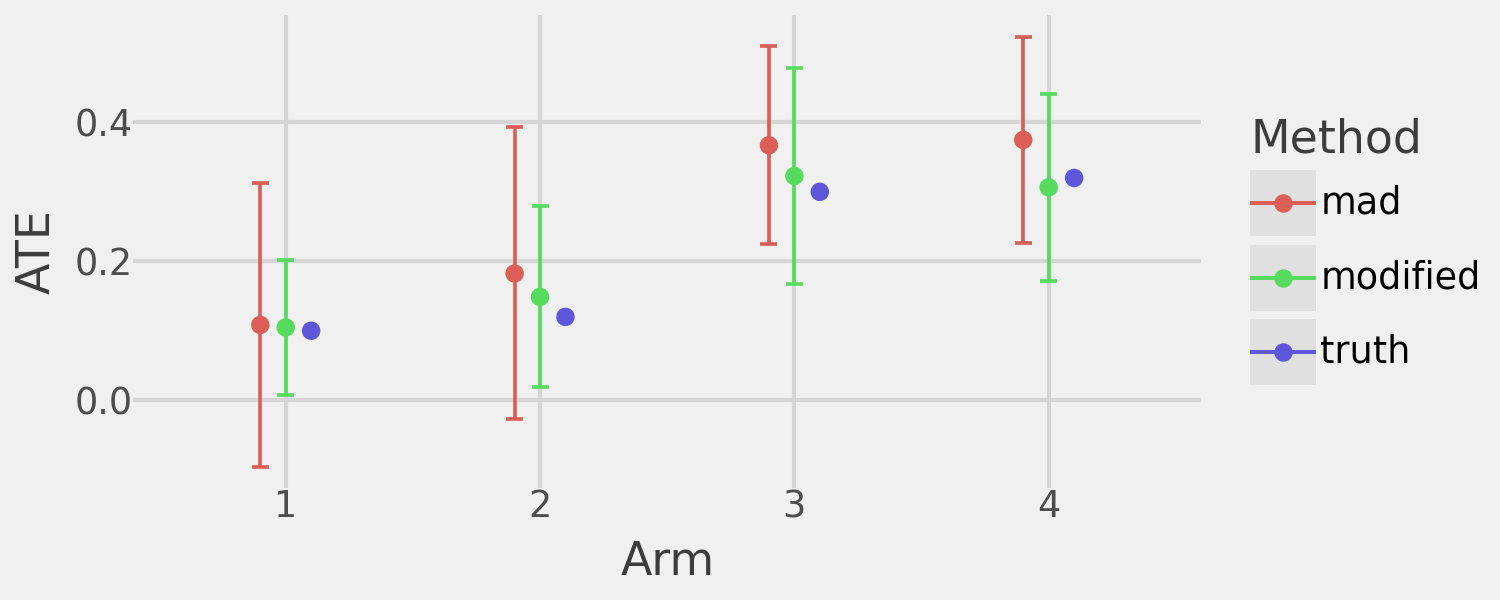
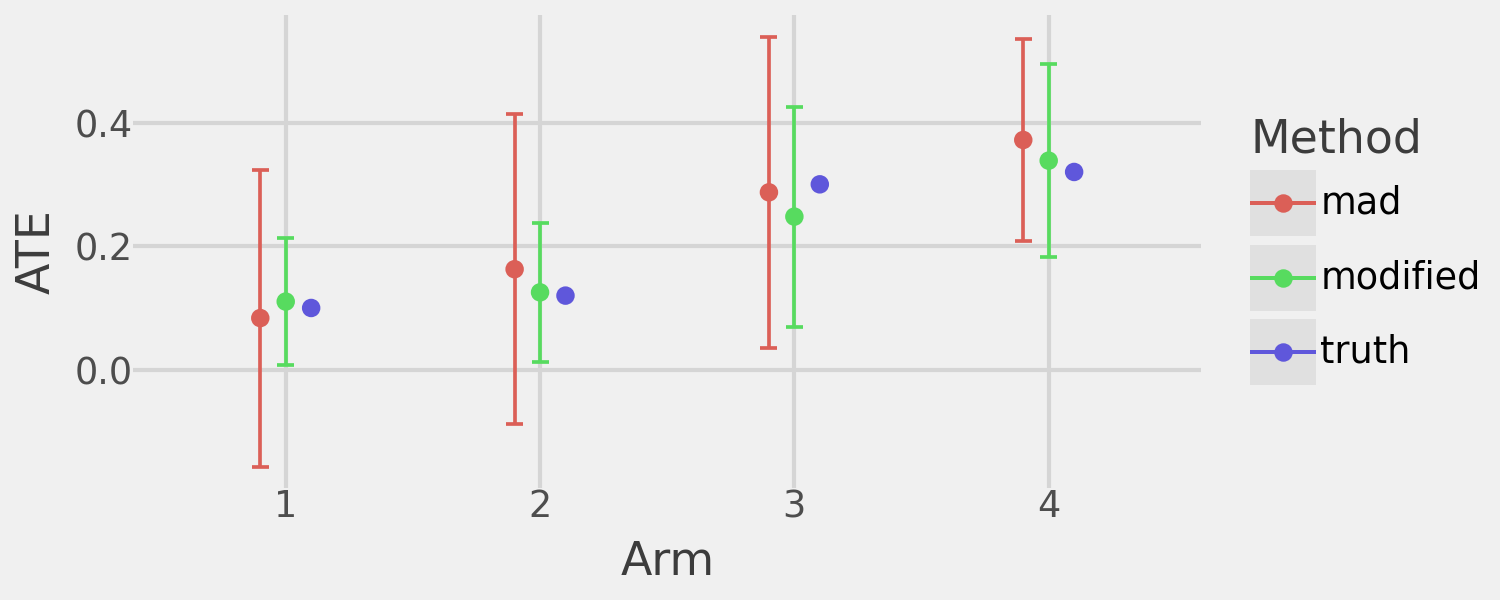
Update README :book:

diff --git a/README.md b/README.md
@@ -323,3 +323,118 @@ ates = pd.concat(
 
 <img src="README_files/figure-commonmark/cell-9-output-1.png"
 width="750" height="300" />
+
+We can quantify these improvements more precisely by running many
+simulations (e.g. 1000) and comparing the Type 2 error and confidence
+band width of the vanilla MAD algorithm to the modified MAD algorithm
+across those 1000 simulations. Each simulation will run for 20,000
+iterations with early stopping. If the modified algorithm stops early,
+then the vanilla algorithm will also stop early so the sample size is
+the same in each simulation.
+
+``` python
+def compare(i):
+        mad_modified = MADModified(
+            bandit=TSBernoulli(k=5, control=0, reward=reward_fn),
+            alpha=0.05,
+            delta=lambda x: 1./(x**0.24),
+            t_star=int(2e4)
+        )
+        mad_modified.fit(cs_precision=0.1, verbose=False, early_stopping=True)
+
+        # Run the vanilla algorithm
+        mad_vanilla = MAD(
+            bandit=TSBernoulli(k=5, control=0, reward=reward_fn),
+            alpha=0.05,
+            delta=lambda x: 1./(x**0.24),
+            t_star=mad_modified._bandit._t
+        )
+        mad_vanilla.fit(verbose=False, early_stopping=False)
+
+        # Calculate the Type 2 error and the Confidence Sequence width
+        mad_mod_df = (
+            mad_modified
+            .estimates()
+            .assign(
+                idx=i,
+                method="modified",
+                width=lambda x: x["ub"] - x["lb"],
+                error=lambda x: ((0 > x["lb"]) & (0 < x["ub"]))
+            )
+        )
+        mad_van_df = (
+            mad_vanilla
+            .estimates()
+            .assign(
+                idx=i,
+                method="mad",
+                width=lambda x: x["ub"] - x["lb"],
+                error=lambda x: ((0 > x["lb"]) & (0 < x["ub"]))
+            )
+        )
+        return pd.concat([mad_mod_df, mad_van_df])
+
+# Execute in parallel with joblib
+comparison_df_list = [
+    x for x in
+    joblib.Parallel(return_as="generator", n_jobs=-1)(
+        joblib.delayed(compare)(i) for i in range(100)
+    )
+]
+
+# Compare performance across simulations
+comparison_df = pd.melt(
+    (
+        pd
+        .concat(comparison_df_list)
+        .reset_index(drop=True)
+        .assign(error=lambda x: x["error"].apply(lambda y: int(y)))
+    ),
+    id_vars=["arm", "method"],
+    value_vars=["width", "error"],
+    var_name="measurement",
+    value_name="value"
+)
+
+# Summarize results
+summary = (
+    comparison_df
+    .groupby(["arm", "method", "measurement"], as_index=False).agg(
+        mean=("value", "mean"),
+        std=("value", "std")
+    )
+    .assign(
+        ub=lambda x: x["mean"] + x["std"],
+        lb=lambda x: x["mean"] - x["std"]
+    )
+    .assign(
+        ub=lambda x: x["ub"].apply(lambda y: min(1., y)),
+        lb=lambda x: x["lb"].apply(lambda y: max(0., y))
+    )
+)
+```
+
+Now let’s plot the performance of the respective algorithms:
+
+``` python
+(
+    pn.ggplot(
+        summary,
+        pn.aes(
+            x="factor(arm)",
+            y="mean",
+            ymin="lb",
+            ymax="ub",
+            color="method"
+        )
+    )
+    + pn.geom_point(position=pn.position_dodge(width=0.2))
+    + pn.geom_errorbar(position=pn.position_dodge(width=0.2), width=0.01)
+    + pn.facet_wrap("~ measurement")
+    + pn.theme_538()
+    + pn.labs(x="Arm", y="", color="Method")
+)
+```
+
+<img src="README_files/figure-commonmark/cell-11-output-1.png"
+width="750" height="300" />
